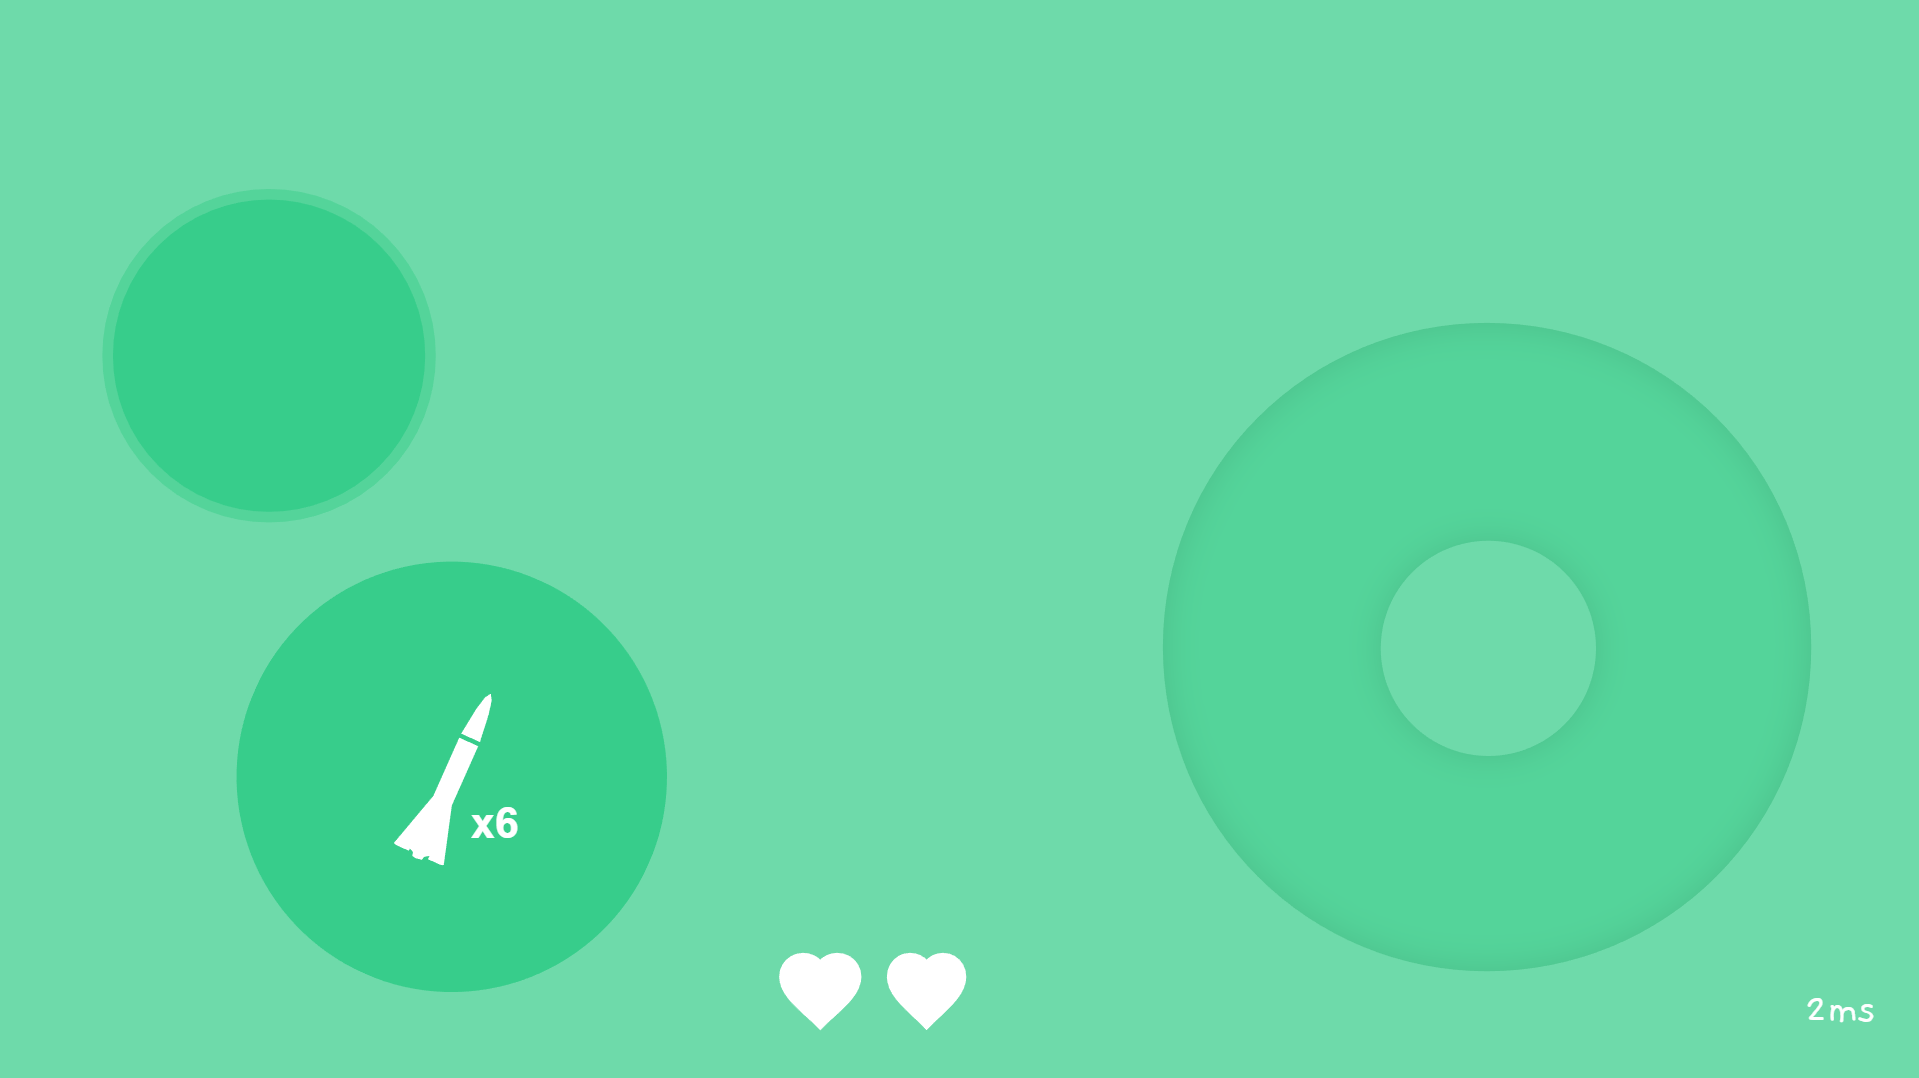
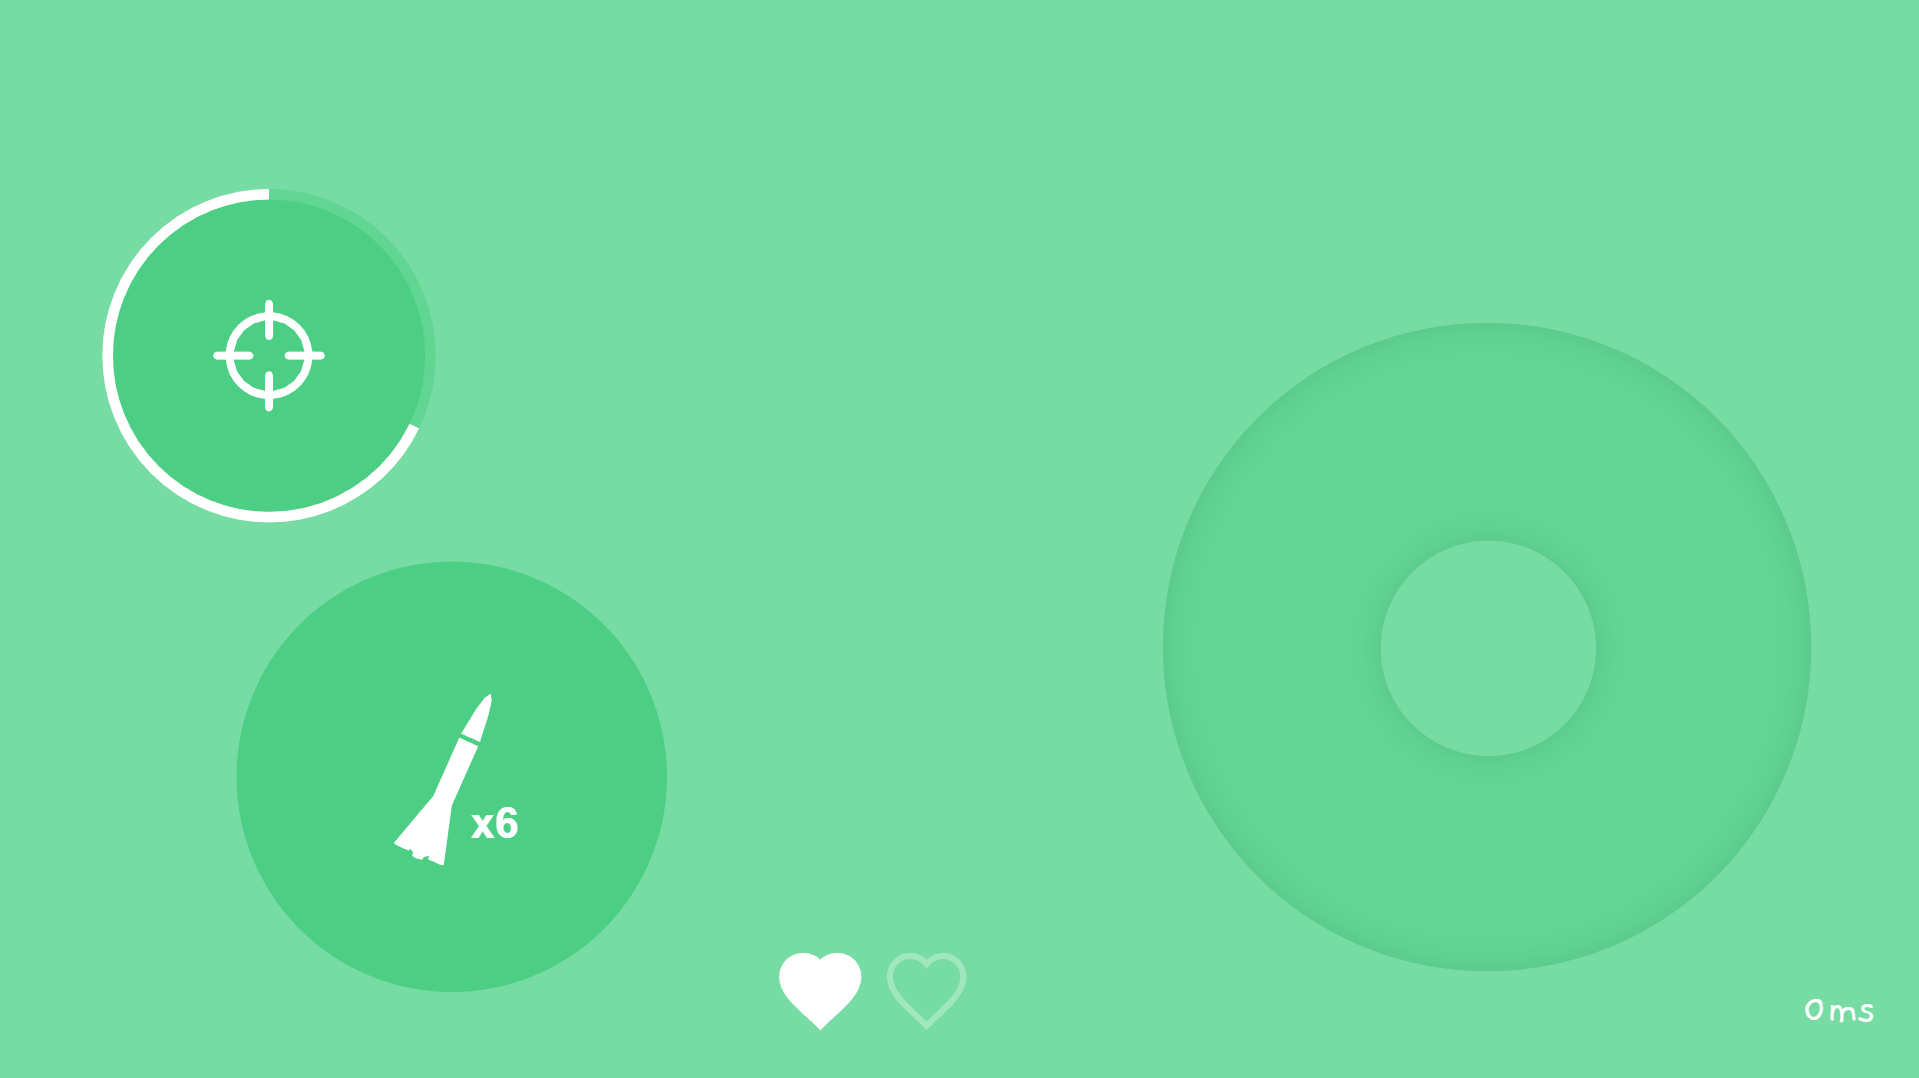
Fixed mobile mockups

diff --git a/public/scripts/drawing_functions.js b/public/scripts/drawing_functions.js
@@ -411,7 +411,8 @@ var icons = {
 	bullet: img("/powerups/bullet.svg"),
 	slow: img("/powerups/slow.svg"),
 	bouncer: img("/powerups/bouncer.svg"),
-	laser: img("/powerups/laser.svg")
+	laser: img("/powerups/laser.svg"),
+	sniper: img("/powerups/sniper.svg")
 };
 
 CanvasRenderingContext2D.prototype.drawPowerup = function(powerup)
